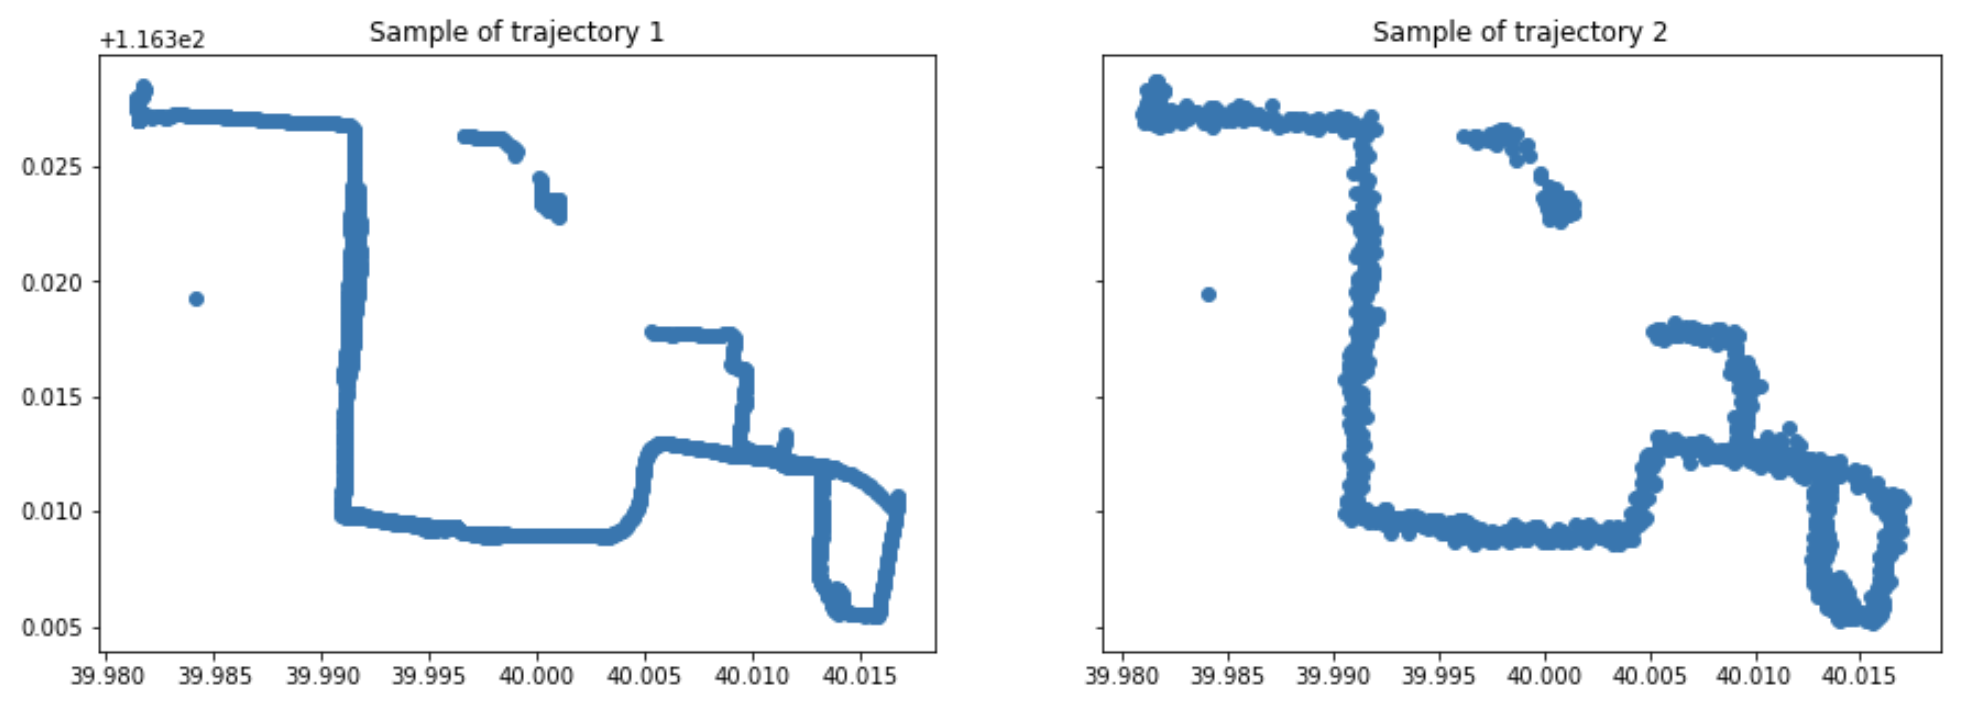
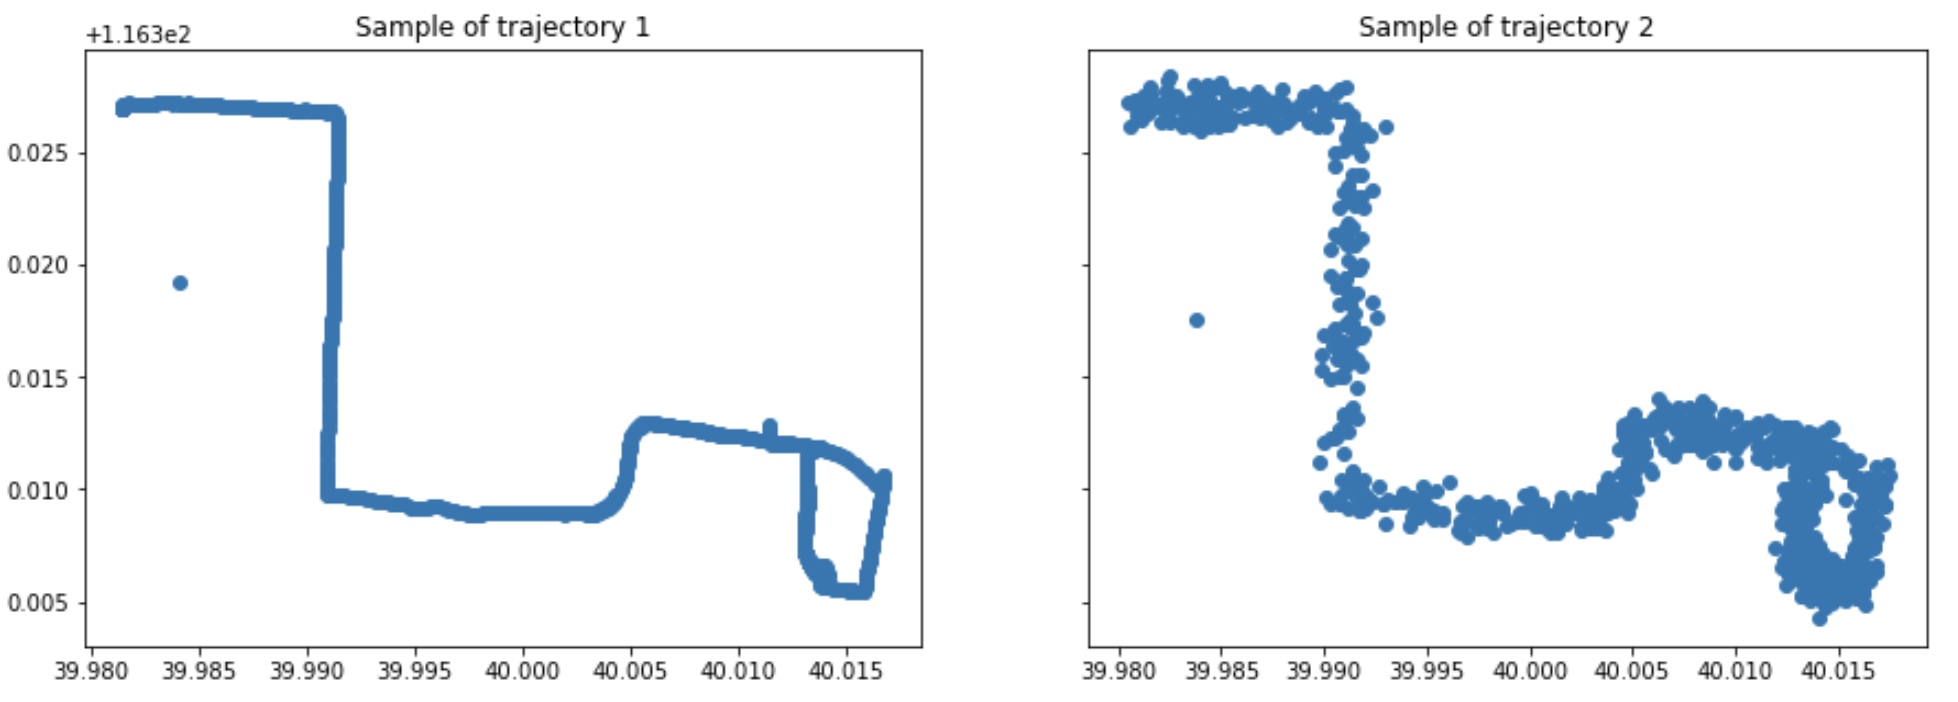
CSS update

diff --git a/assets/css/main.css b/assets/css/main.css
@@ -1492,3 +1492,7 @@ a.newer-posts:hover {
     font-size: 21px;
   }
 }
+
+figcaption {
+  font-size: small;
+}

diff --git a/_posts/2020-08-12-dynamic-time-warping-algorithm-for-trajectories-similarity.md b/_posts/2020-08-12-dynamic-time-warping-algorithm-for-trajectories-similarity.md
@@ -73,7 +73,7 @@ df.head()
 <div align="center">
 	<figure>
   <img src="/assets/img/df.png">
-  <figcaption>figure 1. Result of  df.head()</figcaption>
+		<figcaption>Fig. 1: Result of  df.head()</figcaption>
 </figure>
 </div>
 
@@ -92,7 +92,7 @@ In order to find the similarity between two trajectories, we need to compute a d
 <div align="center">
 	<figure>
   <img src="/assets/img/haversine.png" width="50%">
-  <figcaption>Equation 1. Haversine Formula used to calculate the great-circle distance between two points 1 and 2</figcaption>
+  <figcaption>Eq. 1: Haversine Formula used to calculate the great-circle distance between two points 1 and 2</figcaption>
 </figure>
 </div>
 
@@ -106,7 +106,7 @@ The equation to compute the DTW P and Q (respectively u1 and u2) is the followin
 <div align="center">
 	<figure>
   <img src="/assets/img/dtw.png" width="50%">
-  <figcaption></figcaption>
+  <figcaption>Eq. 2: Formula to compute the DTW recursively</figcaption>
 </figure>
 </div>
 
@@ -168,34 +168,34 @@ The trajectories are now stored in a list called `trajectories`.  After executin
 <div align="center">
 	<figure>
   <img src="/assets/img/sample_trajectories.png" width="90%">
-  <figcaption>Visualisation of samples trajectories</figcaption>
+  <figcaption>Fig. 2: Visualisation of samples trajectories</figcaption>
 </figure>
 </div>
 
-As you can see in the figure above, the two trajectories are quite dissimilar, finding the [optimal match](https://en.wikipedia.org/wiki/Optimal_matching) using DTW gives no real interest in this case. For the purpose of this article, we will generate a new trajectory based on an existing one by adding some gaussian noise.
-We will just have to add a new method in the `Trajectory`'s class:
+As you can see in the figure above, the two trajectories are quite dissimilar, finding the [optimal match](https://en.wikipedia.org/wiki/Optimal_matching) using DTW gives no real interest in this case. For a sake of simplicity, we generate a new trajectory based on an existing one by adding some Gaussian noise.
+To achieve that, we just add a new method in the `Trajectory`'s class:
 ```python
 def addNoise(self, mu, sigma):
         return Trajectory([Point(i.latitude + normal(mu, sigma), i.longitude + normal(mu, sigma), i.t) for i in self.points])
 
 ```
 
-Now, we can use the first trajectory from the dataset a reference, we will call it _**P**_, and we create a second trajectory _**Q**_ based on _**P**_ by using the method _**addNoise**_.
+Now, we can use the first trajectory from the dataset a reference, we call it _**P**_, and we create a second trajectory _**Q**_ based on _**P**_ by using the method _**addNoise**_.
 
 ```python
 P = Trajectory(trajectories[0])
-Q = P.addNoise(0, 0.0002)
+Q = P.addNoise(0, 0.0005)
 ```
 
 <div align="center">
 	<figure>
   <img src="/assets/img/similar_trajectories.png" width="90%">
-  <figcaption>Trajectories P and Q</figcaption>
+  <figcaption>Fig. 3: Trajectories P and Q</figcaption>
 </figure>
 </div>
 
 ## Warping function
-The warping function is the function that minimizes the total distance between the points of the two given trajectories. Before defining the warping function, we will create a distance matrix between the two trajectories using the following code:
+The warping function is a function that minimizes the total distance between the points of the two given trajectories. Before defining the warping function, we will create a distance matrix between the two trajectories using the following code:
 
 ```python
 row = []
@@ -207,138 +207,140 @@ for i in Q.points:
     row = []
 
 ```
+The table below shows a sample of the distance matrix between P and Q. 
 
 <div align="center">
 	<figure>
 	<table>
-			<tbody>
-					<tr>
-							<td>0.1</td>
-							<td>0.11</td>
-							<td>0.13</td>
-							<td>0.14</td>
-							<td>0.15</td>
-							<td>0.17</td>
-							<td>0.16</td>
-							<td>0.16</td>
-							<td>0.16</td>
-							<td>0.08</td>
-					</tr>
-					<tr>
-							<td>0.06</td>
-							<td>0.08</td>
-							<td>0.09</td>
-							<td>0.1</td>
-							<td>0.11</td>
-							<td>0.13</td>
-							<td>0.13</td>
-							<td>0.13</td>
-							<td>0.13</td>
-							<td>0.04</td>
-					</tr>
-					<tr>
-							<td>0.07</td>
-							<td>0.08</td>
-							<td>0.08</td>
-							<td>0.09</td>
-							<td>0.1</td>
-							<td>0.11</td>
-							<td>0.11</td>
-							<td>0.11</td>
-							<td>0.11</td>
-							<td>0.05</td>
-					</tr>
-					<tr>
-							<td>0.09</td>
-							<td>0.08</td>
-							<td>0.06</td>
-							<td>0.05</td>
-							<td>0.04</td>
-							<td>0.02</td>
-							<td>0.03</td>
-							<td>0.03</td>
-							<td>0.03</td>
-							<td>0.11</td>
-					</tr>
-					<tr>
-							<td>0.09</td>
-							<td>0.08</td>
-							<td>0.07</td>
-							<td>0.05</td>
-							<td>0.04</td>
-							<td>0.04</td>
-							<td>0.04</td>
-							<td>0.04</td>
-							<td>0.04</td>
-							<td>0.11</td>
-					</tr>
-					<tr>
-							<td>0.17</td>
-							<td>0.16</td>
-							<td>0.15</td>
-							<td>0.13</td>
-							<td>0.12</td>
-							<td>0.11</td>
-							<td>0.11</td>
-							<td>0.11</td>
-							<td>0.11</td>
-							<td>0.2</td>
-					</tr>
-					<tr>
-							<td>0.15</td>
-							<td>0.14</td>
-							<td>0.13</td>
-							<td>0.12</td>
-							<td>0.1</td>
-							<td>0.09</td>
-							<td>0.09</td>
-							<td>0.09</td>
-							<td>0.09</td>
-							<td>0.17</td>
-					</tr>
-					<tr>
-							<td>0.08</td>
-							<td>0.07</td>
-							<td>0.06</td>
-							<td>0.05</td>
-							<td>0.03</td>
-							<td>0.02</td>
-							<td>0.02</td>
-							<td>0.02</td>
-							<td>0.02</td>
-							<td>0.11</td>
-					</tr>
-					<tr>
-							<td>0.06</td>
-							<td>0.05</td>
-							<td>0.04</td>
-							<td>0.03</td>
-							<td>0.03</td>
-							<td>0.03</td>
-							<td>0.03</td>
-							<td>0.03</td>
-							<td>0.03</td>
-							<td>0.08</td>
-					</tr>
-					<tr>
-							<td>0.06</td>
-							<td>0.05</td>
-							<td>0.04</td>
-							<td>0.03</td>
-							<td>0.03</td>
-							<td>0.03</td>
-							<td>0.03</td>
-							<td>0.03</td>
-							<td>0.03</td>
-							<td>0.09</td>
-					</tr>
-			</tbody>
-	</table>
-		<figcaption>Distance matrix</figcaption>
+    <tbody>
+        <tr>
+            <td>0.06</td>
+            <td>0.05</td>
+            <td>0.05</td>
+            <td>0.05</td>
+            <td>0.06</td>
+            <td>0.06</td>
+            <td>0.07</td>
+            <td>0.07</td>
+            <td>0.07</td>
+            <td>0.07</td>
+        </tr>
+        <tr>
+            <td>0.07</td>
+            <td>0.06</td>
+            <td>0.05</td>
+            <td>0.04</td>
+            <td>0.04</td>
+            <td>0.04</td>
+            <td>0.04</td>
+            <td>0.04</td>
+            <td>0.04</td>
+            <td>0.04</td>
+        </tr>
+        <tr>
+            <td>0.12</td>
+            <td>0.11</td>
+            <td>0.1</td>
+            <td>0.09</td>
+            <td>0.08</td>
+            <td>0.07</td>
+            <td>0.06</td>
+            <td>0.06</td>
+            <td>0.06</td>
+            <td>0.06</td>
+        </tr>
+        <tr>
+            <td>0.05</td>
+            <td>0.04</td>
+            <td>0.03</td>
+            <td>0.03</td>
+            <td>0.02</td>
+            <td>0.03</td>
+            <td>0.04</td>
+            <td>0.04</td>
+            <td>0.04</td>
+            <td>0.04</td>
+        </tr>
+        <tr>
+            <td>0.1</td>
+            <td>0.09</td>
+            <td>0.08</td>
+            <td>0.07</td>
+            <td>0.06</td>
+            <td>0.05</td>
+            <td>0.04</td>
+            <td>0.04</td>
+            <td>0.04</td>
+            <td>0.04</td>
+        </tr>
+        <tr>
+            <td>0.12</td>
+            <td>0.1</td>
+            <td>0.09</td>
+            <td>0.08</td>
+            <td>0.07</td>
+            <td>0.05</td>
+            <td>0.04</td>
+            <td>0.04</td>
+            <td>0.04</td>
+            <td>0.04</td>
+        </tr>
+        <tr>
+            <td>0.12</td>
+            <td>0.11</td>
+            <td>0.1</td>
+            <td>0.09</td>
+            <td>0.07</td>
+            <td>0.06</td>
+            <td>0.05</td>
+            <td>0.05</td>
+            <td>0.05</td>
+            <td>0.05</td>
+        </tr>
+        <tr>
+            <td>0.06</td>
+            <td>0.05</td>
+            <td>0.04</td>
+            <td>0.03</td>
+            <td>0.01</td>
+            <td>0.0</td>
+            <td>0.02</td>
+            <td>0.02</td>
+            <td>0.02</td>
+            <td>0.01</td>
+        </tr>
+        <tr>
+            <td>0.12</td>
+            <td>0.1</td>
+            <td>0.09</td>
+            <td>0.08</td>
+            <td>0.06</td>
+            <td>0.05</td>
+            <td>0.04</td>
+            <td>0.04</td>
+            <td>0.04</td>
+            <td>0.04</td>
+        </tr>
+        <tr>
+            <td>0.21</td>
+            <td>0.19</td>
+            <td>0.18</td>
+            <td>0.17</td>
+            <td>0.16</td>
+            <td>0.14</td>
+            <td>0.13</td>
+            <td>0.13</td>
+            <td>0.13</td>
+            <td>0.13</td>
+        </tr>
+    </tbody>
+</table>
+		<figcaption>Table 1: Sample of the distance matrix</figcaption>
 	</figure>
 	</div>
 
-After building our distance matrix, we can now define a warping function that will be use to find the optimal match. 
+After building our distance matrix, we can now define a warping function that will be use to find the optimal warping path in the whole distance matrix.
+
 	
 
 
